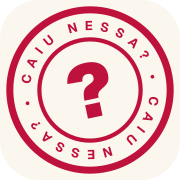
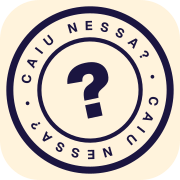
feat(letreiro): carimbo do ícone em tinta sobre papel, com gerador em scripts/icone

diff --git a/tests/app/icone.test.ts b/tests/app/icone.test.ts
@@ -1,0 +1,17 @@
+import { readFileSync } from 'node:fs'
+import { expect, it } from 'vitest'
+
+it('icon.svg usa tinta sobre papel, sem o rosa antigo', () => {
+  const svg = readFileSync('src/app/icon.svg', 'utf8')
+  expect(svg).not.toMatch(/#be123c/i)
+  expect(svg).toMatch(/#1b1540/i)
+  expect(svg).toMatch(/#fff3dc/i)
+})
+
+it('favicon.ico tem 3 imagens PNG e apple-icon tem 180 px', () => {
+  const ico = readFileSync('src/app/favicon.ico')
+  expect(ico.readUInt16LE(4)).toBe(3)
+  const png = readFileSync('src/app/apple-icon.png')
+  expect(png.readUInt32BE(16)).toBe(180) // largura no IHDR
+  expect(png.readUInt32BE(20)).toBe(180)
+})
